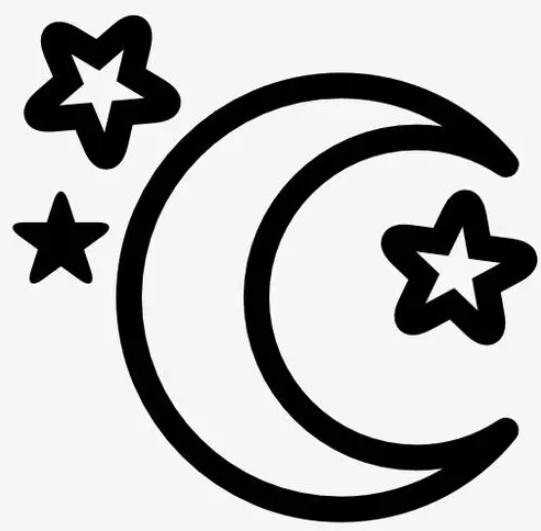
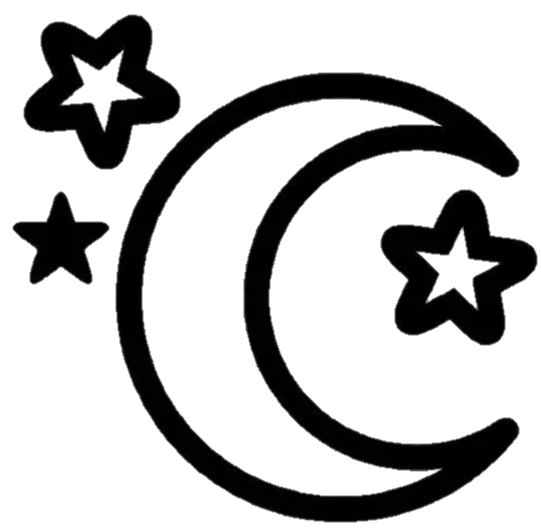
fix & style:'todolist的bug修复以及睡眠模块UI修改'

diff --git a/大学生自我管理APP-02/pages/self-manage/component/sleep/sleep.vue b/大学生自我管理APP-02/pages/self-manage/component/sleep/sleep.vue
@@ -21,8 +21,10 @@
 						<button class="clock_button" @click="sleep_clock">睡觉</button>
 						
 					</view>
-					<view v-if="sleep" >
-						<image class="img" src="../../static/sleeping_zzz.jpg" mode="heightFix"></image>
+					<view v-if="sleep" style="position: relative;">
+						<view class="wave_1"></view>
+						<view class="wave_2"></view>
+						<image class="img" src="../../static/moon.png" mode="heightFix"></image>
 						<button class="clock_button" @click="clickSprink()" @touchend="touchend" @touchstart="touchstart">起床</button>
 						<view style="font-size: 12px; color: #9e9e9e; margin-top: -8px;" >轻触取消就寝状态，长按起床</view>
 					</view>
@@ -403,7 +405,7 @@
 			//手指触摸动作开始
 			touchstart(){
 				this.start_time = new Date().getTime();
-				console.log(this.start_time);
+				/* console.log(this.start_time); */
 				this.timer = setTimeout(()=>{
 					this.longpress();
 				},200)//触发倒计时
@@ -412,7 +414,7 @@
 			touchend(){
 				clearTimeout(this.timer);
 				this.end_time = new Date().getTime();
-				console.log(this.end_time);
+				/* console.log(this.end_time); */
 				//延时执行为了防止 click() 还未判断 islongPress 的值就被置为 fasle
 				setTimeout(() => {
 					this.islongPress = false
@@ -566,10 +568,56 @@
 		justify-content: center;
 		animation: img_1 1.5s ease-in-out 0s infinite alternate;
 	}
+	.wave_1{
+		position: absolute;
+		top: -25px;
+		left: -50px;
+		width: 300px;
+		height: 300px;
+		/* outline: 2px dashed gray; */
+		--c: #0000;
+		--w1: radial-gradient(100% 57% at top ,#0000 100%,#b8b8b8 4px,var(--c) 101.5%) no-repeat;
+		--w2: radial-gradient(100% 57% at bottom, var(--c) 100%,#b8b8b8 4px,#0000 101.5%) no-repeat;
+		background: var(--w1),var(--w2),var(--w1),var(--w2);
+		background-position-x: -200%, -100%, 0%, 100%;
+		background-position-y: 100%;
+		background-size: 50.5% 100%;
+		animation: m 2s infinite -0.5s linear;
+	}
+	.wave_2{
+		position: absolute;
+		top: -15px;
+		left: -50px;
+		width: 300px;
+		height: 300px;
+		/* outline: 2px dashed gray; */
+		--c: #0000;
+		--w1: radial-gradient(100% 57% at top ,#0000 100%,#b8b8b8 4px,var(--c) 101.5%) no-repeat;
+		--w2: radial-gradient(100% 57% at bottom, var(--c) 100%,#b8b8b8 4px,#0000 101.5%) no-repeat;
+		background: var(--w1),var(--w2),var(--w1),var(--w2);
+		background-position-x: -200%, -100%, 0%, 100%;
+		background-position-y: 100%;
+		background-size: 50.5% 100%;
+		animation: m 3s infinite -0s linear;
+	}
+	@keyframes m {
+		0%  {background-position-x:-200%, -100%, 0%, 100%}
+		100%{background-position-x:  0%, 100%, 200%, 300%}
+	}
 	.img{
 		height:200px;
 		align-items: center;
 		justify-content: center;
+		animation: img 3s ease-in-out 0s infinite alternate;
+	}
+	@keyframes img {
+		from {
+			transform: translate(0, 15rpx) rotate(-10deg) scale(0.95)
+		}
+	
+		to {
+			transform: translate(0, -15rpx) rotate(10deg) scale(1.05)
+		}
 	}
 	.clockTime_box{
 		/* display: flex; */

diff --git a/大学生自我管理APP-02/pages/self-manage/play/add_playGoal.vue b/大学生自我管理APP-02/pages/self-manage/play/add_playGoal.vue
@@ -8,7 +8,7 @@
 					</template>
 				</uni-section>
 				<view class="form-item_content">
-					<textarea :maxlength="20" v-model="item.title" auto-height placeholder="请输入"></textarea>
+					<textarea v-model="item.title" auto-height placeholder="请输入" style="width: 260px;"></textarea>
 				</view>
 			</view>
 			<view class="form-item_outside">
@@ -18,7 +18,7 @@
 					</template>
 				</uni-section>
 				<view class="form-item_content">
-					<textarea :maxlength="20" v-model="item.content" auto-height placeholder="请输入"></textarea>
+					<textarea v-model="item.content" auto-height placeholder="请输入" style="width: 260px;"></textarea>
 				</view>
 			</view>
 			<view class="form-item_outside">
@@ -30,7 +30,7 @@
 				<view class="form-item_content">
 					<uni-data-checkbox v-model="baseFormData.time" :localdata="time_type" @change="choosetimetype" selectedColor="#009688" />
 					<view v-if="item.timetype0" class="time-picker">
-						<uni-datetime-picker v-model="datetimeRange" type="datetimerange" start-placeholder="开始时间" rangeSeparator="至" end-placeholder="结束时间" />
+						<uni-datetime-picker v-model="datetimeRange" type="datetimerange" start-placeholder="开始时间" rangeSeparator="至" end-placeholder="结束时间" style="width: 240px;"/>
 					</view>
 					<!-- 2023-10-24添加结束 -->
 					<!-- 周期时间选择器 -->				
@@ -295,7 +295,7 @@
 	.FormPage {
 		/* 表单页面颜色:浅灰*/
 		width: 100%;
-		padding: 20px;
+		padding: 20px 10px;
 		background-color: rgb(245, 245, 245);
 		display: flex;
 		flex-direction: column;
@@ -308,8 +308,8 @@
 		background-color: white;
 		box-shadow: -1px 1px 5px 1px rgba(0, 0, 0, 0.1), -1px 2px 1px 0 rgba(255, 255, 255) inset;
 		border-radius: 10px;
-		width: 75%;
-		margin: 10px 0 20px 40px;
+		width: 95%;
+		margin: 10px 0 20px;
 	}
 	.decoration{
 		width: 4px;
@@ -322,7 +322,8 @@
 		margin: 12px 20px 15px;
 	}
 	.time-picker{
-		margin: 10px;
+		margin: 10px 0px 10px 10px;
+		width: 90%;
 	}
 	.list-box {
 		display: flex;

diff --git a/大学生自我管理APP-02/pages/todolist/todolist.vue b/大学生自我管理APP-02/pages/todolist/todolist.vue
@@ -401,8 +401,35 @@
 			var that=this;
 			this.getNowTime();
 			this.getList()
-			if(this.listAfterSort.length==0){
-				this.listAfterSort=this.sort_list();
+			let obj={
+					year: that.today_year,
+					title: '今天也要加油哦',
+					mark: '',
+					select: false,
+					color: '#009688',
+					cycletime: '',
+					cycles: [],
+					time: '',
+					day: that.today_day,
+					date: that.nowtime_day+' 00:00',
+					weekday: that.todayWeekday,
+					flag_day: false,
+					flag_year: false,
+			};
+			if(!this.listAfterSort.includes(obj)){
+				const eventIndex = this.listAfterSort.findIndex(event => event.title === obj.title);
+				if (eventIndex !== -1) {
+					this.listAfterSort.splice(eventIndex,1);
+				}
+				this.listAfterSort.push(obj);
+				if(this.listAfterSort.length==1){
+					this.listAfterSort=this.sort_list();
+				}
+				else{
+					this.listAfterSort.sort((a,b)=>{
+						return (new Date(a.date)).getTime()-(new Date(b.date)).getTime()
+					})
+				}
 			}
 		},
 		onReady() {
@@ -624,24 +651,6 @@
 						}
 					})
 				}
-				//如果'今天'没有的话
-				let obj={
-						year: that.today_year,
-						title: '今天也要加油哦',
-						mark: '',
-						select: false,
-						color: '#009688',
-						cycletime: '',
-						cycles: [],
-						time: '09:00',
-						day: that.today_day,
-						date: that.nowtime_day+' 08:59',
-						weekday: that.todayWeekday,
-						flag_day: false,
-						flag_year: false,
-				};
-				console.log(obj);
-				list_sort.push(obj);
 				
 				list_sort.sort((a,b)=>{
 					return (new Date(a.date)).getTime()-(new Date(b.date)).getTime()
@@ -776,7 +785,7 @@
 			},
 			deleteEvent(item, index) {
 				var that=this
-				if(!item.cycles){
+				if(!item.cycles.length!=0){
 					uni.showActionSheet({
 						itemList: ['确认删除'],
 						itemColor: '#007AFF', // 设置选项文本颜色为蓝色
@@ -1066,7 +1075,7 @@
 
 	.options {
 		position: absolute;
-		top: 60px;
+		top: 90px;
 		right: 45px;
 		background: #fff;
 		box-shadow: 0px 0px 4px rgba(30, 30, 30, 0.1);

diff --git a/大学生自我管理APP-02/pages/self-manage/play/EventFormRecord.vue b/大学生自我管理APP-02/pages/self-manage/play/EventFormRecord.vue
@@ -42,9 +42,9 @@
 							<view class="decoration"></view>
 						</template>
 					</uni-section>
-					<view class="form-item_content">
+					<view class="time-picker">
 						<uni-datetime-picker v-model="datetimeRange" type="datetimerange" rangeSeparator="至"
-							 :end="item.Today" :picker-options="pickerOptions" />
+							 :end="item.Today" :picker-options="pickerOptions" style="width: 255px;"/>
 					</view>
 				</view>
 				<!-- <uni-card title="选择时间范围"> -->
@@ -415,7 +415,11 @@
 		width: 113%;
 		margin: 10px 0 20px -20px;
 	}
-
+	
+	.time-picker{
+		margin: 12px 0 15px 20px;
+	}
+	
 	.form-item_content {
 		margin: 12px 20px 15px;
 	}
